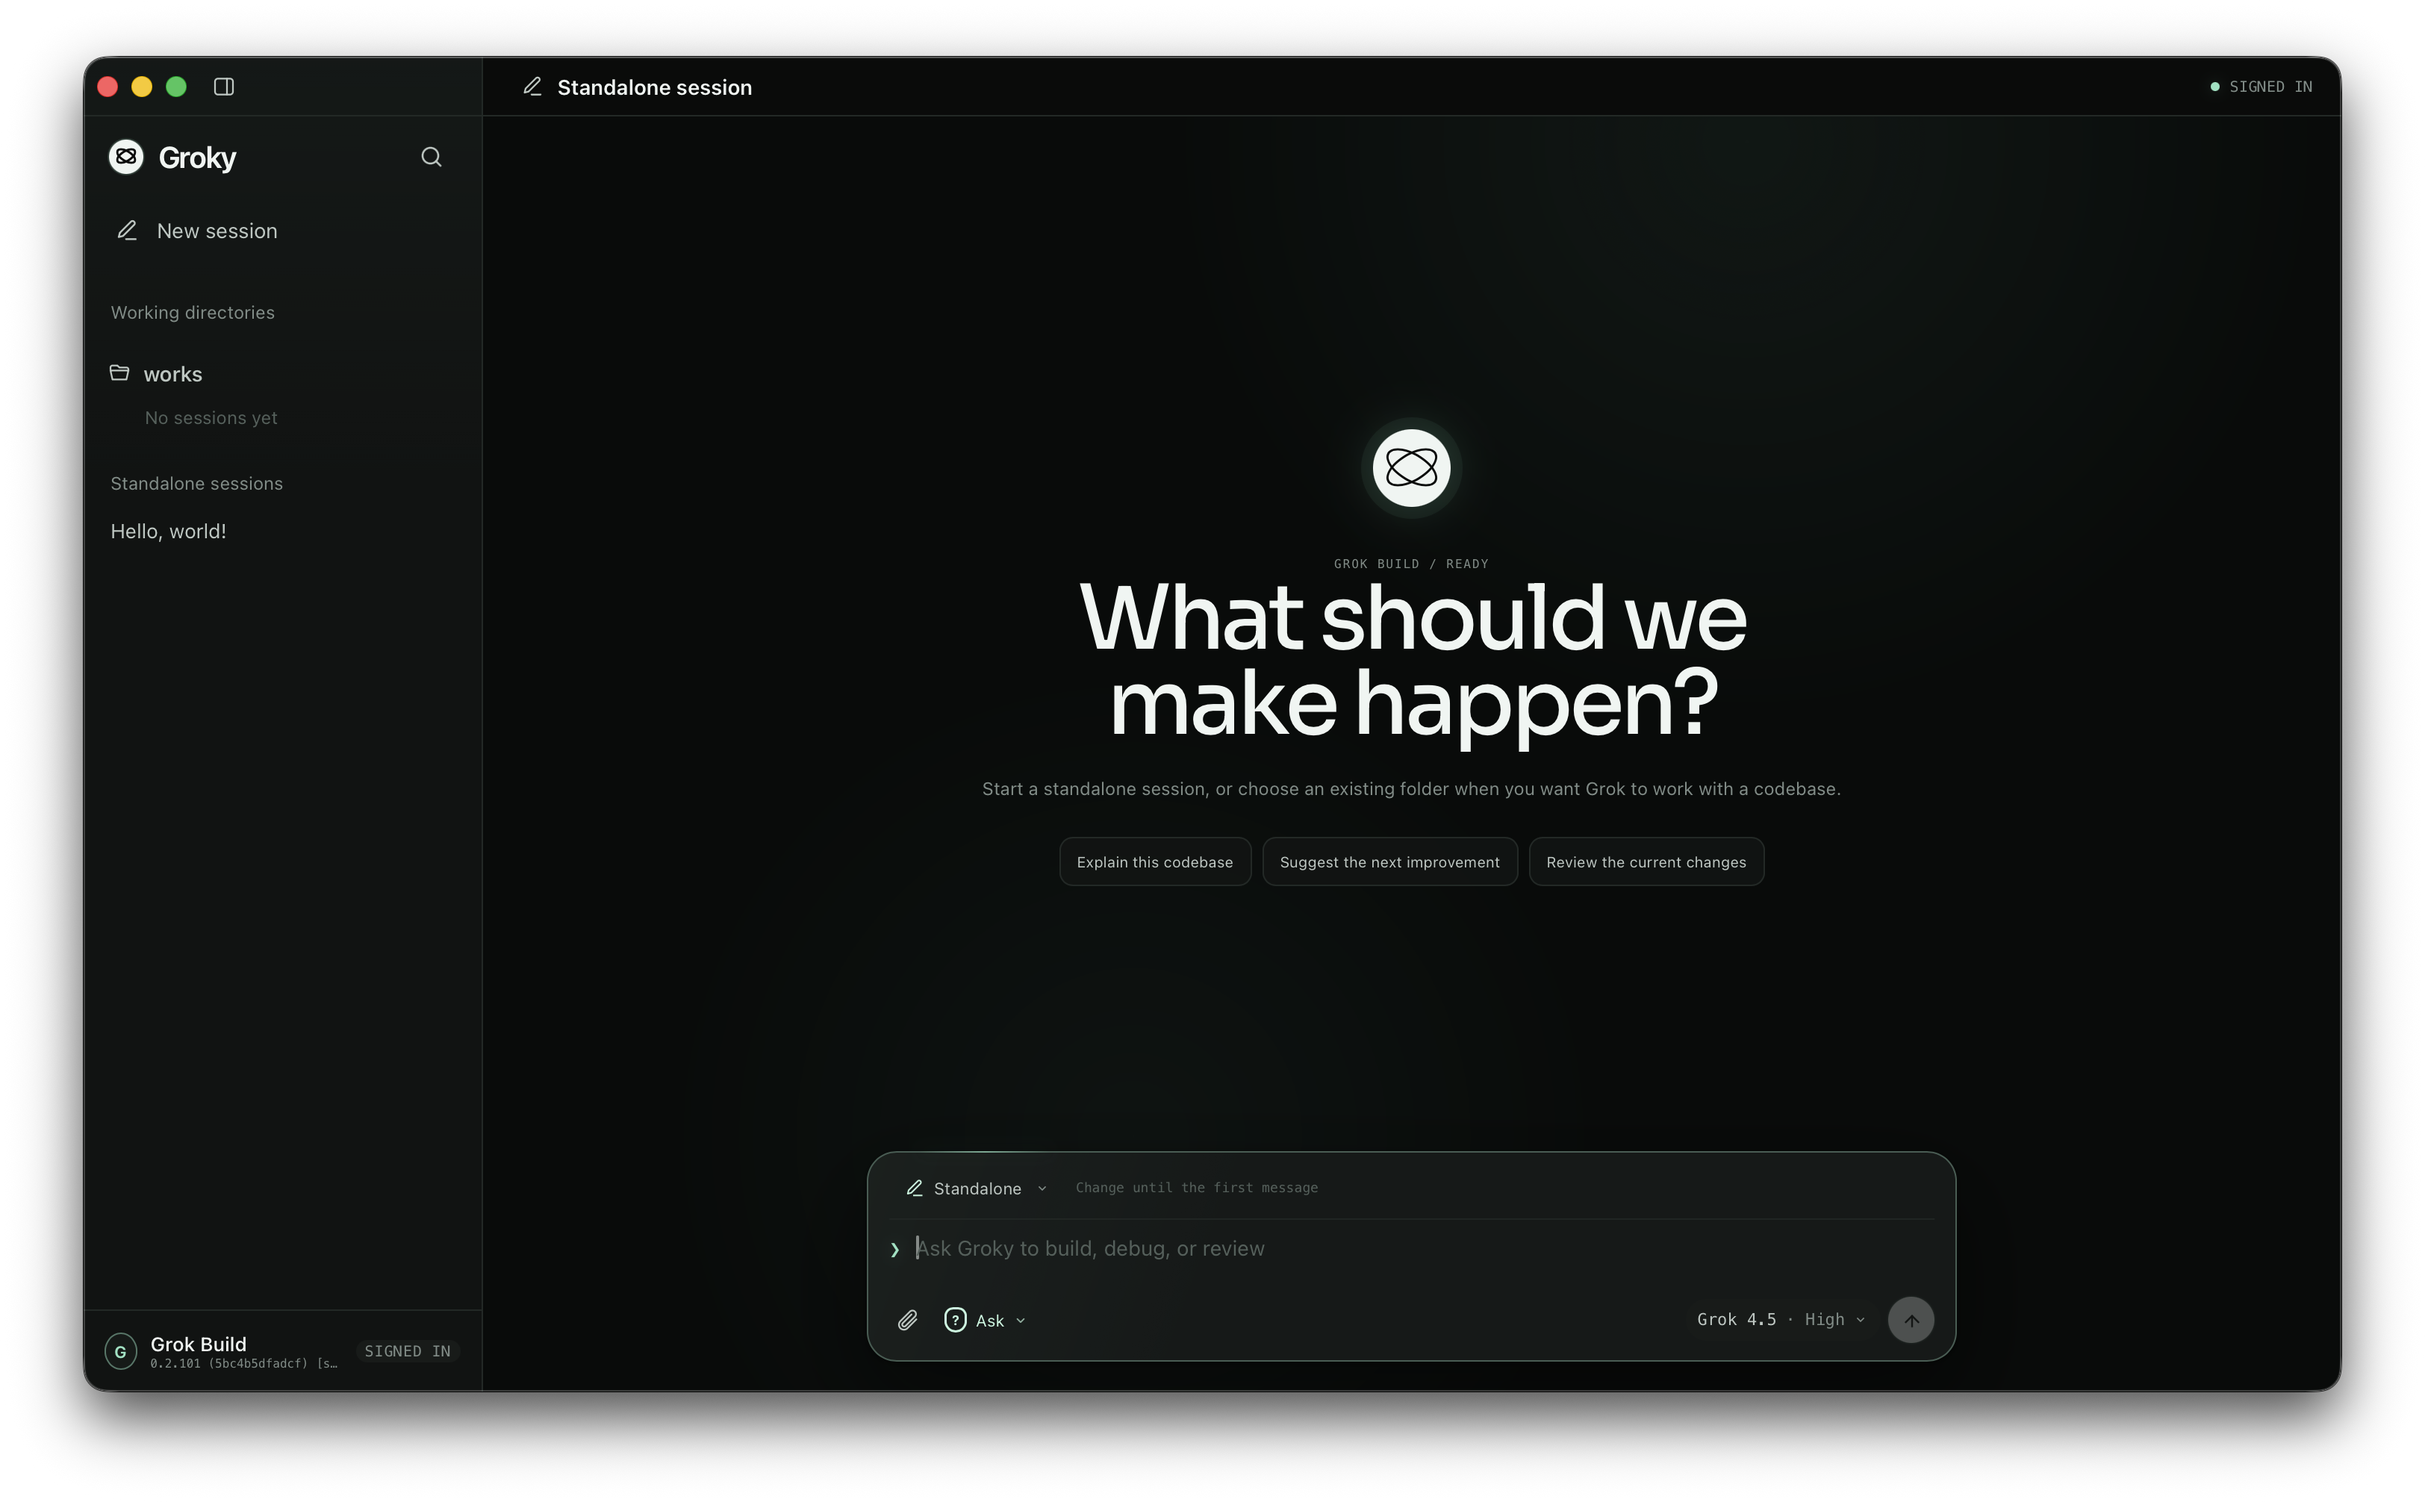
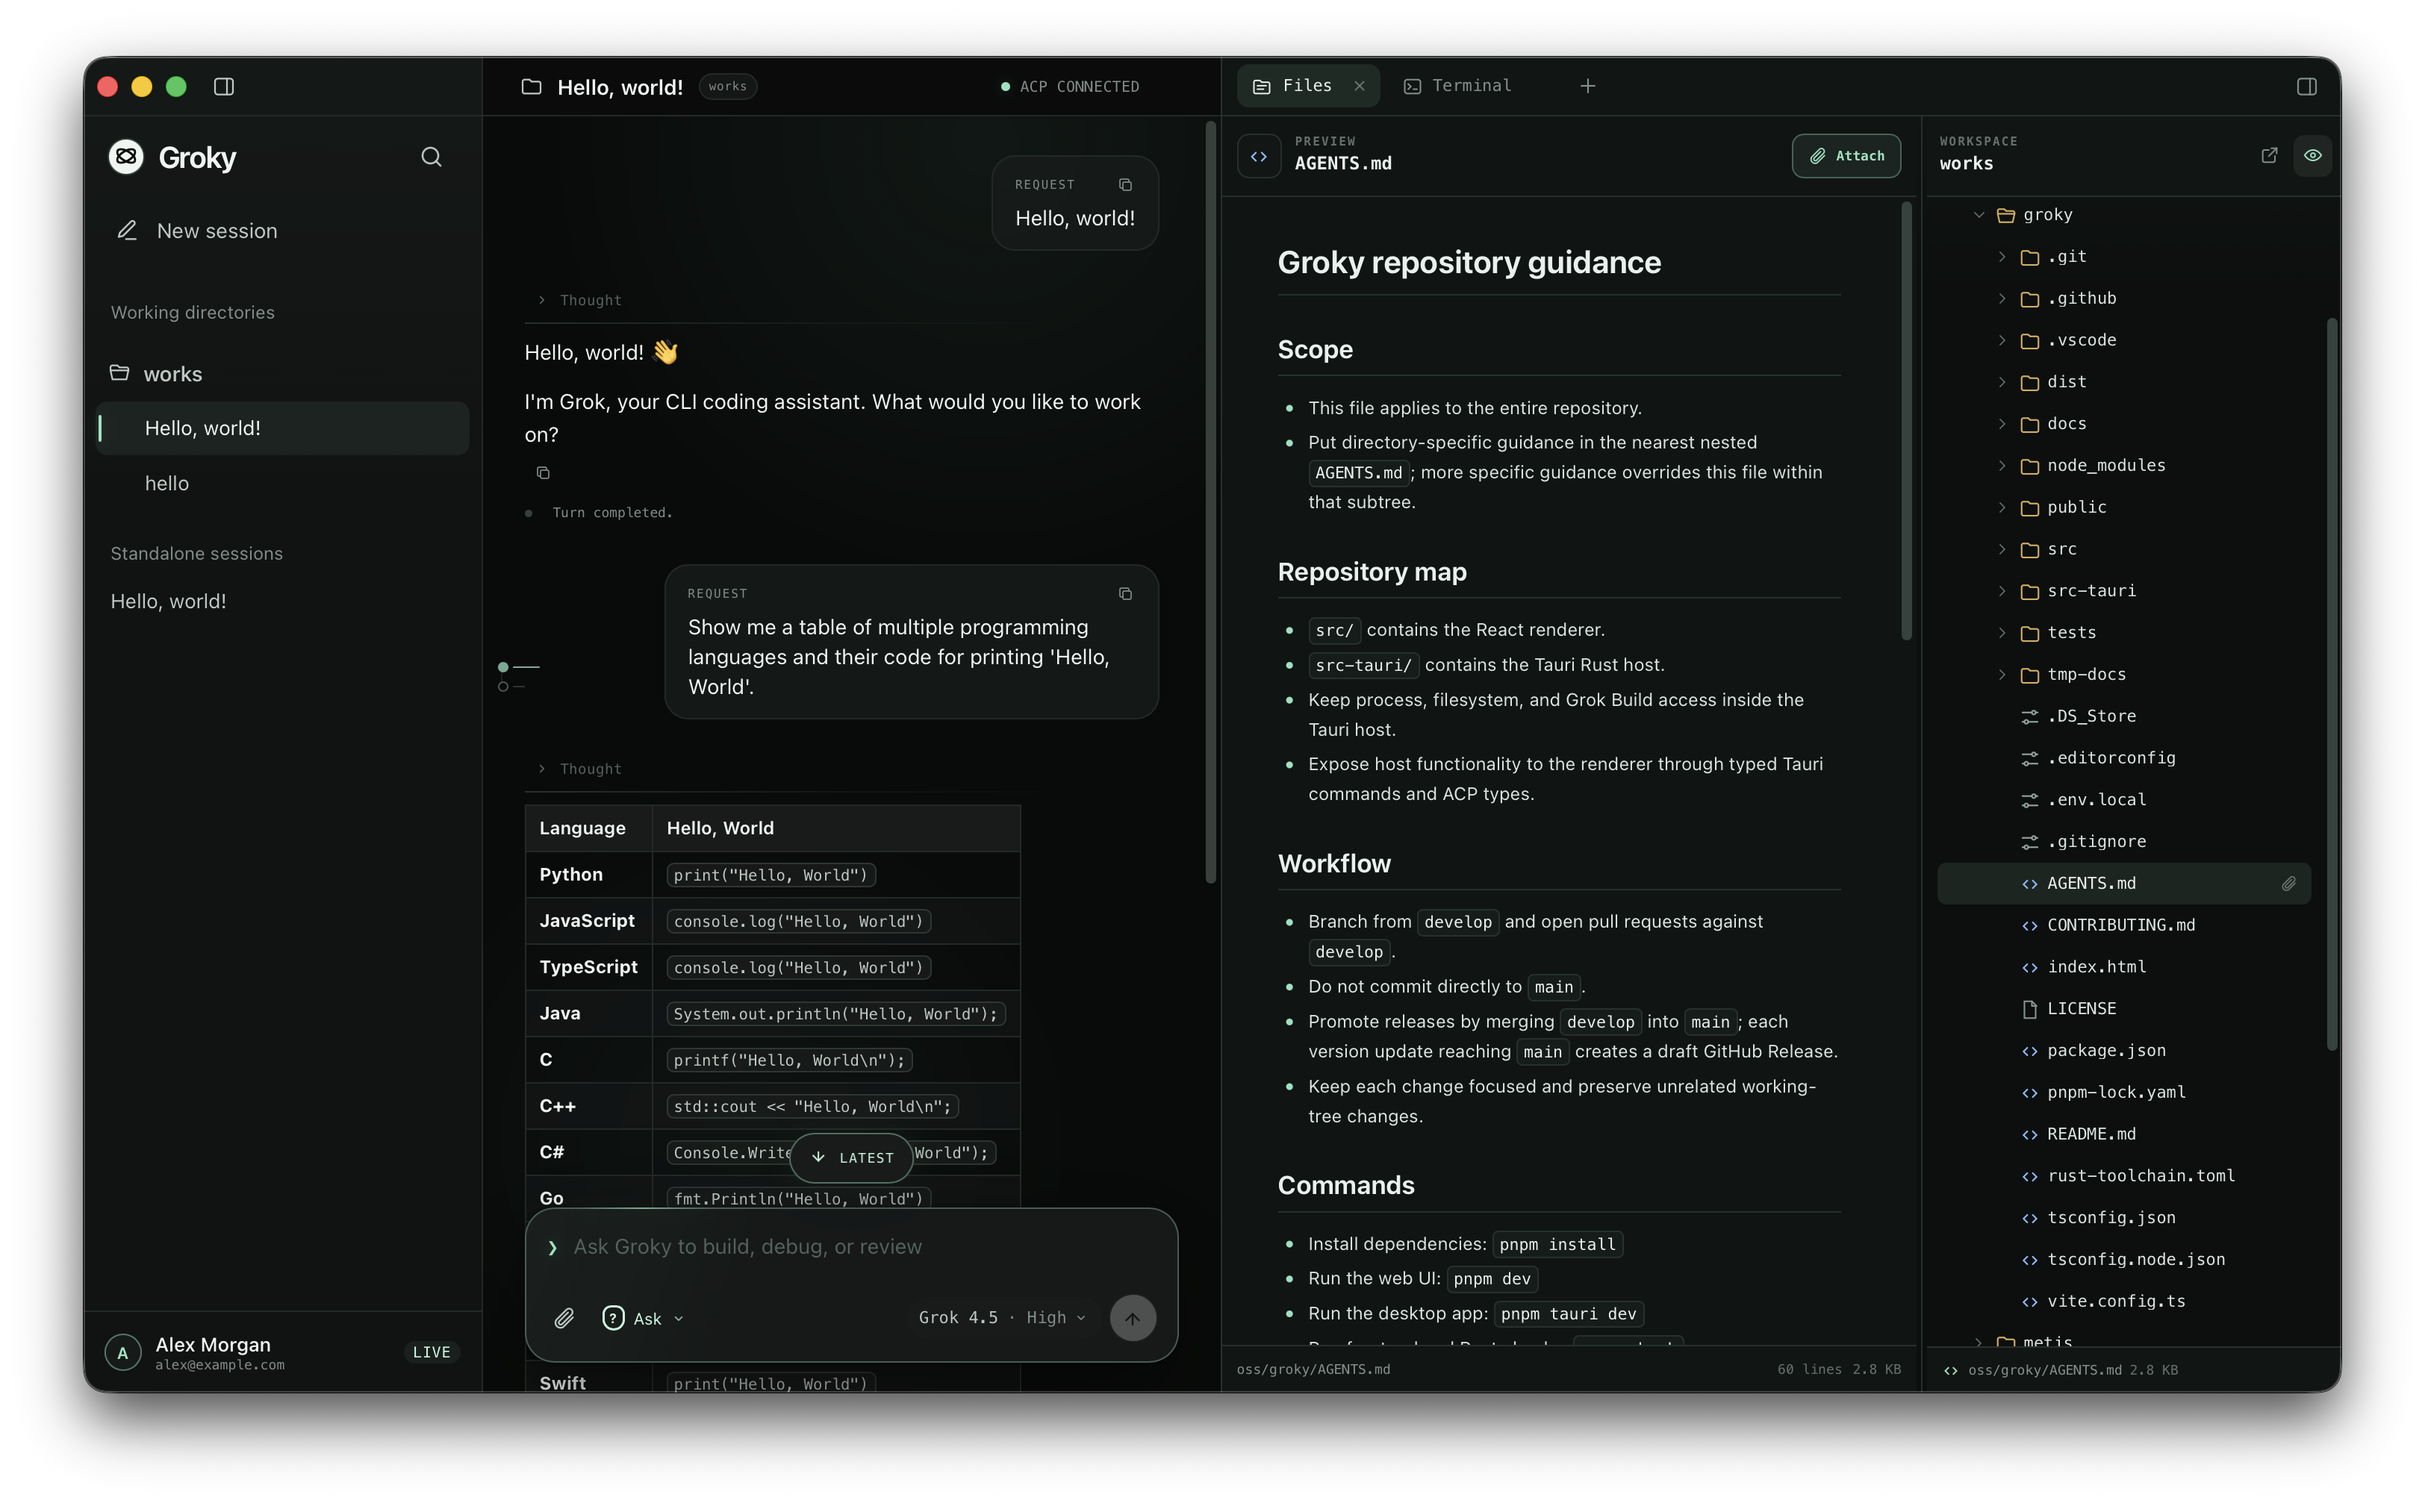
docs: update README screenshot

diff --git a/README.md b/README.md
@@ -25,7 +25,7 @@
 > Groky is an independent, unofficial project and is not affiliated with or endorsed by xAI.
 
 <p align="center">
-  <img src="docs/assets/groky-hero.png" alt="Groky ready to start a standalone Grok Build session" width="100%">
+  <img src="docs/assets/groky-hero.png" alt="Groky showing a Grok Build conversation, file preview, and workspace explorer" width="100%">
 </p>
 
 <p align="center">
